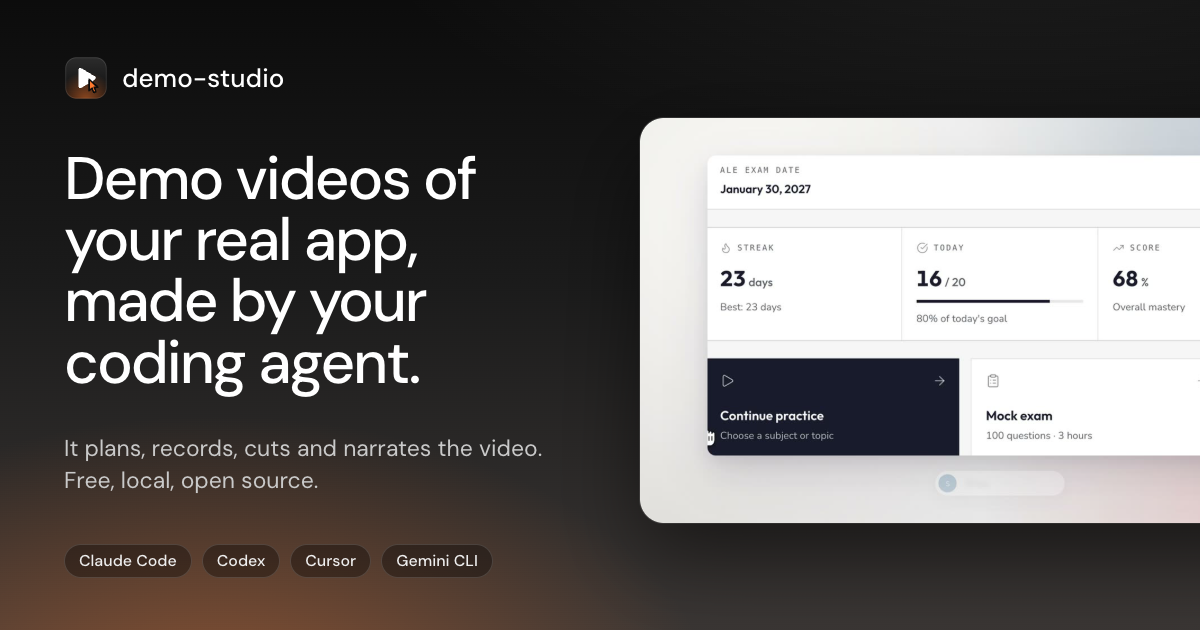
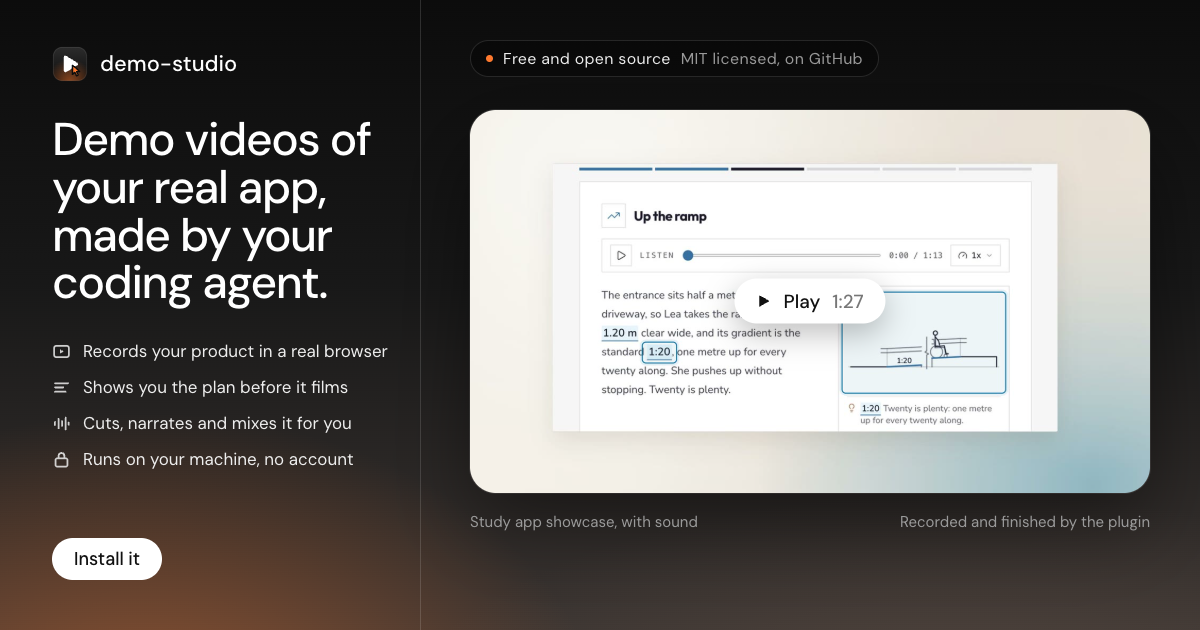
feat(site): social preview card that matches the current homepage

diff --git a/site/index.html b/site/index.html
@@ -16,7 +16,7 @@
 <meta property="og:url" content="https://demo-studio.pastelero.ph/">
 <meta property="og:title" content="demo-studio: demo videos of your real app">
 <meta property="og:description" content="Your coding agent plans it, records it, cuts and narrates it. Free, local, open source.">
-<meta property="og:image" content="https://demo-studio.pastelero.ph/og-image.png">
+<meta property="og:image" content="https://demo-studio.pastelero.ph/og-image.png?v=2026-11-28">
 <meta property="og:image:type" content="image/png">
 <meta property="og:image:width" content="1200">
 <meta property="og:image:height" content="630">
@@ -24,7 +24,7 @@
 <meta name="twitter:card" content="summary_large_image">
 <meta name="twitter:title" content="demo-studio: demo videos of your real app">
 <meta name="twitter:description" content="Your coding agent plans it, records it, cuts and narrates it. Free, local, open source.">
-<meta name="twitter:image" content="https://demo-studio.pastelero.ph/og-image.png">
+<meta name="twitter:image" content="https://demo-studio.pastelero.ph/og-image.png?v=2026-11-28">
 <meta name="twitter:image:alt" content="demo-studio: a finished demo video of your real app, with a frame from a sample video">
 <script type="application/ld+json">
 {"@context": "https://schema.org", "@type": "SoftwareApplication", "name": "demo-studio", "url": "https://demo-studio.pastelero.ph/", "description": "Open-source skills that let Claude Code, Codex, Cursor or Gemini CLI plan, record, cut and narrate a demo video of your real app. Free and local.", "applicationCategory": "DeveloperApplication", "operatingSystem": "macOS, Linux, Windows", "license": "https://opensource.org/licenses/MIT", "offers": {"@type": "Offer", "price": "0", "priceCurrency": "USD"}, "image": "https://demo-studio.pastelero.ph/og-image.png", "sameAs": ["https://github.com/cyruspastelero/demo-studio"], "author": {"@type": "Person", "name": "Cyrus David Pastelero", "url": "https://github.com/cyruspastelero"}}
